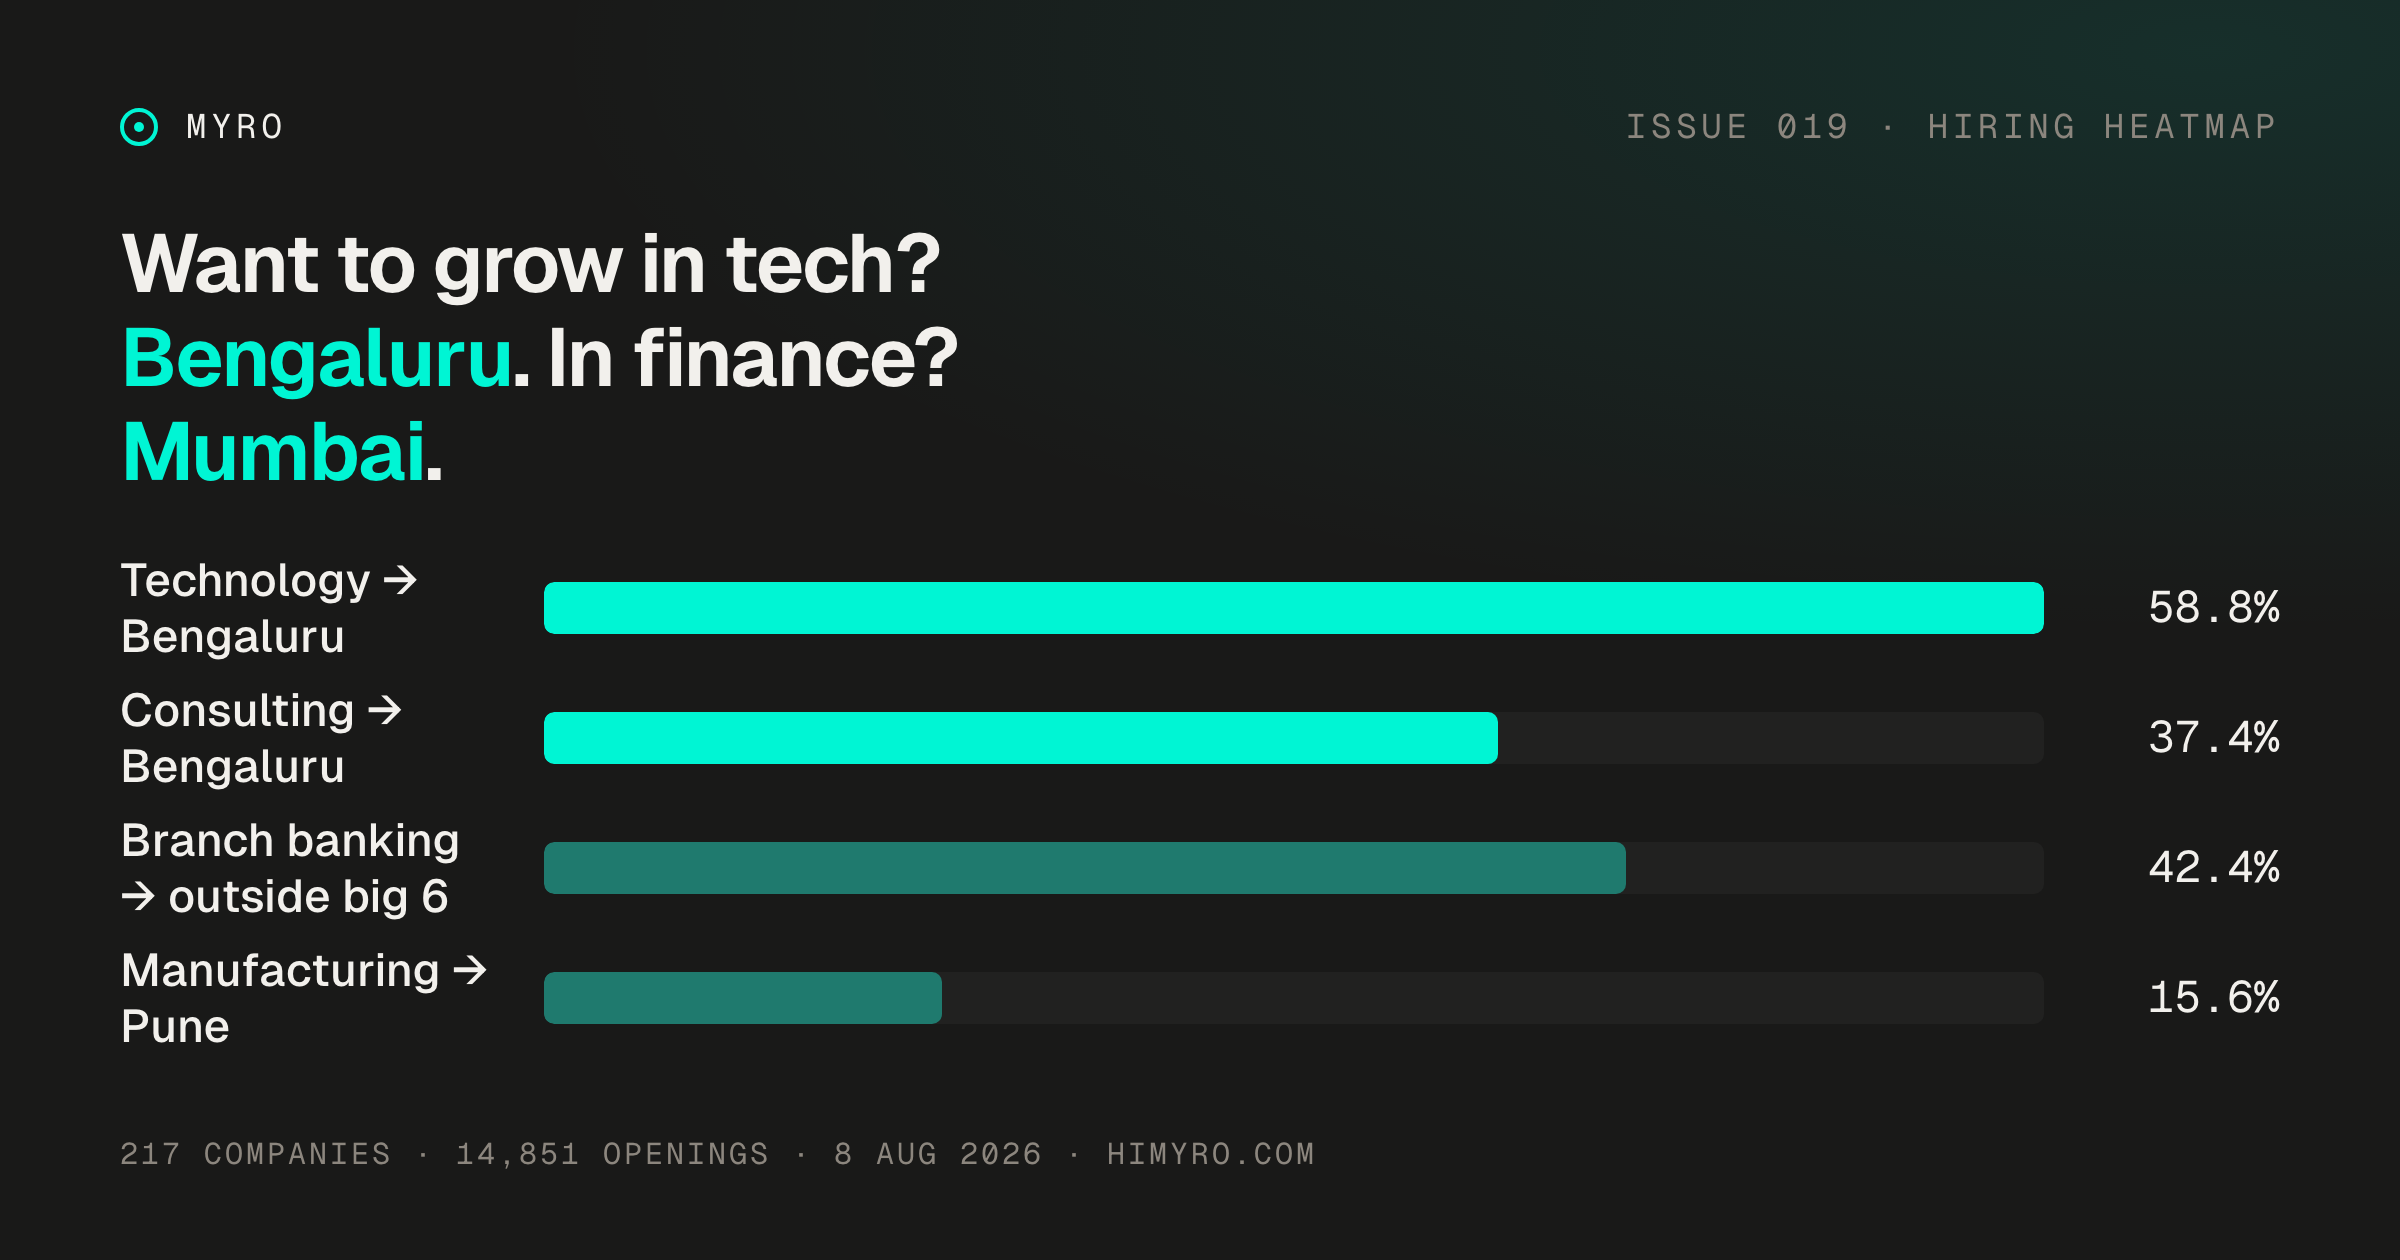
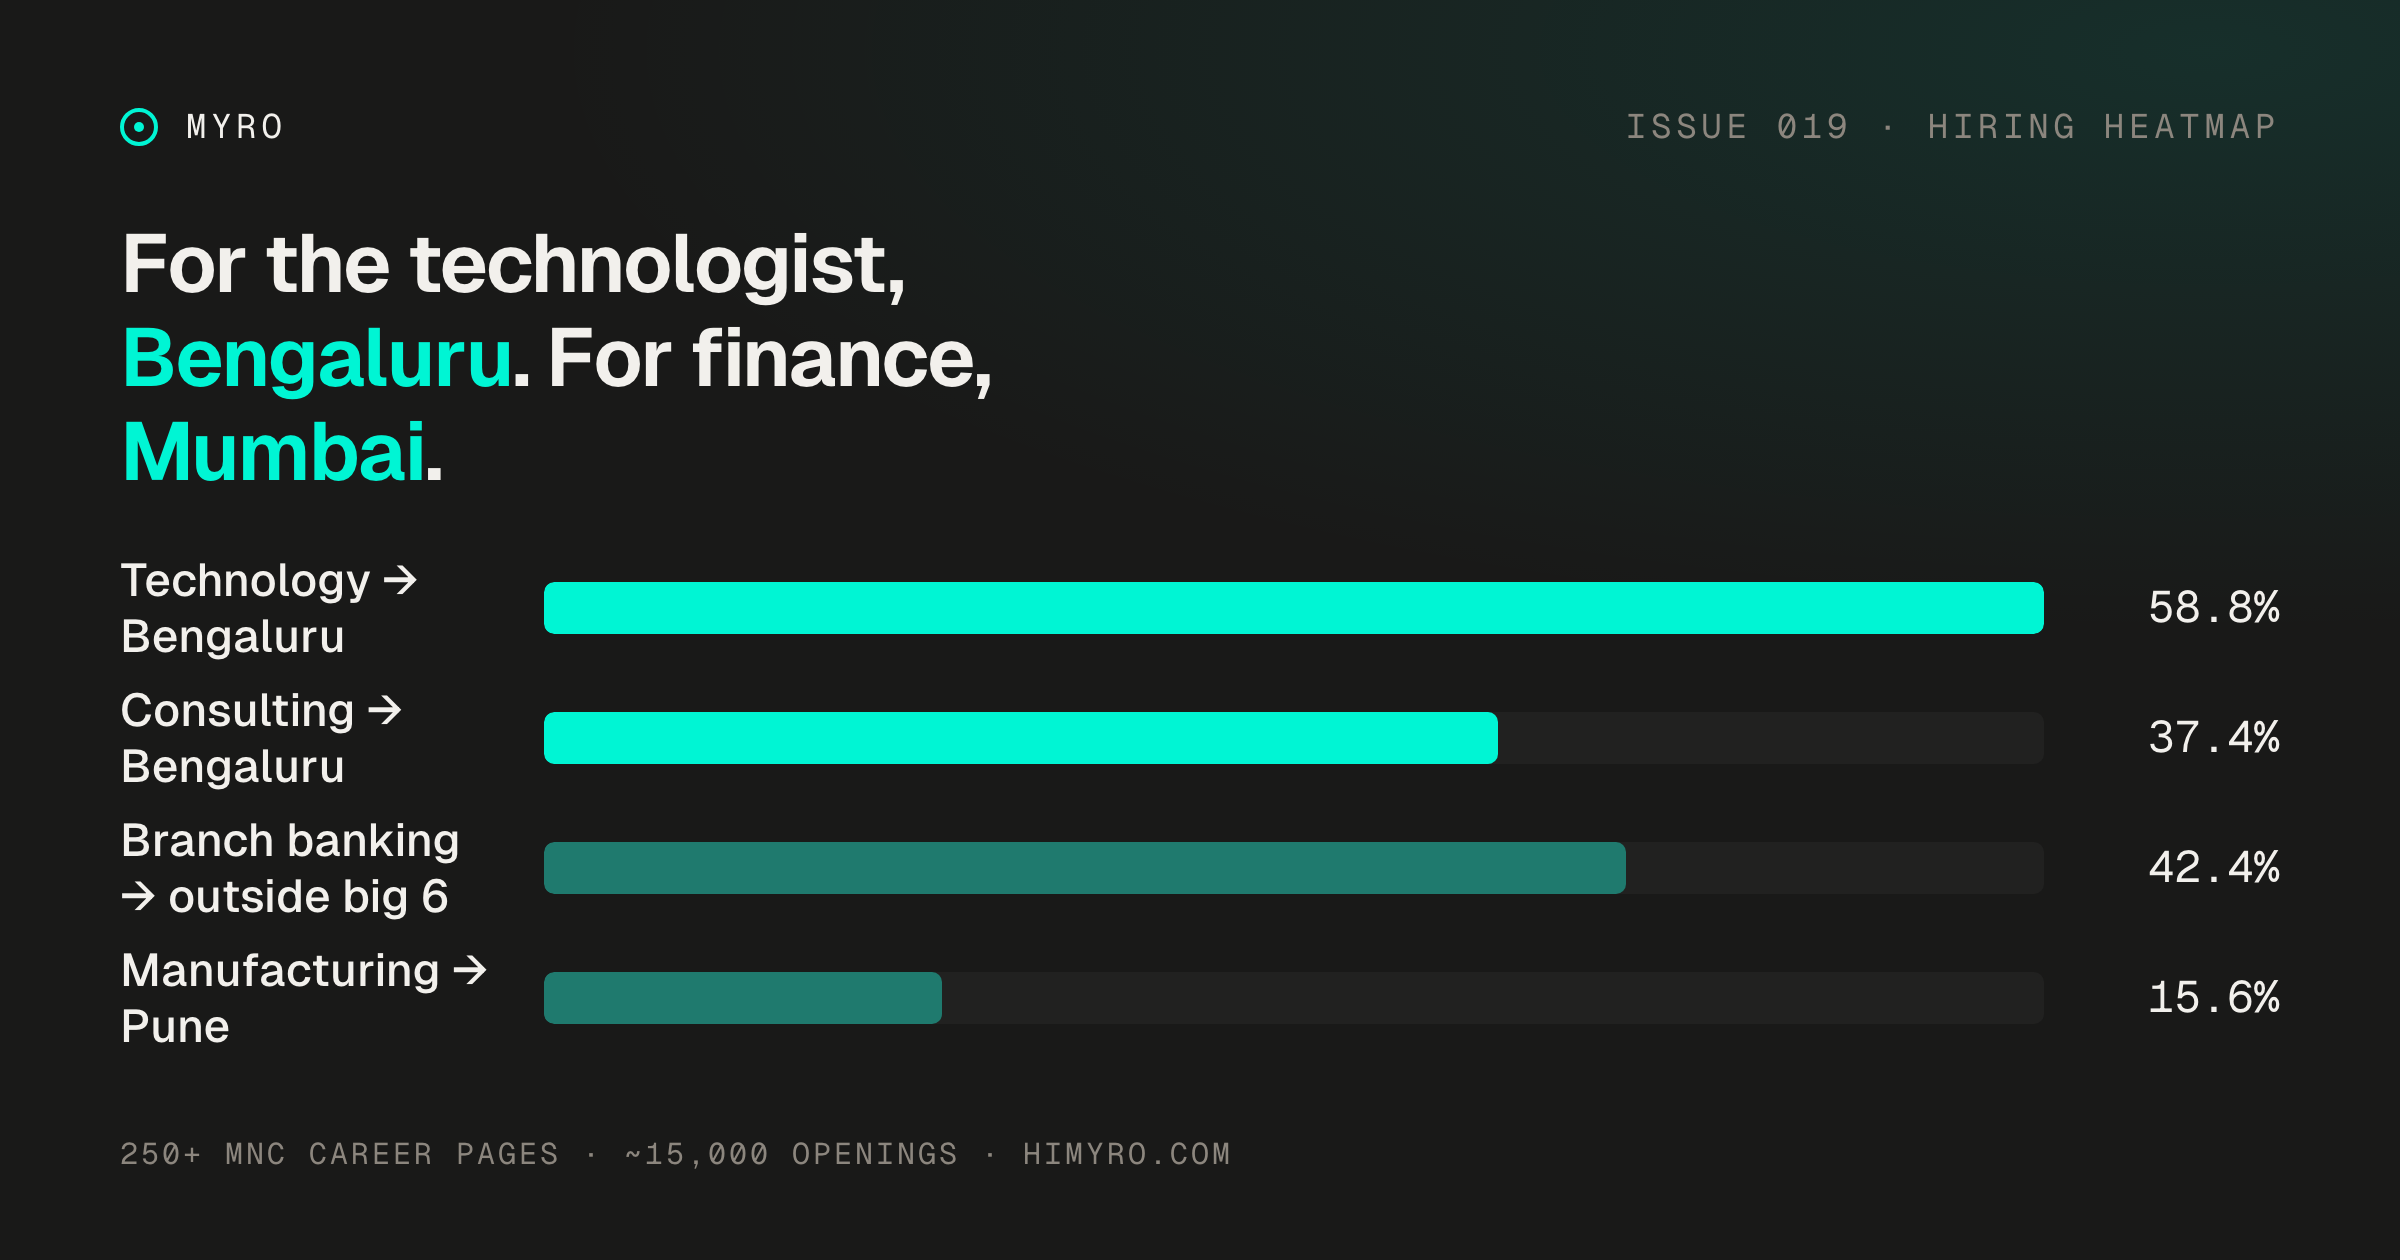
content(newsletter): issue 19 gold version, and record what it changed
Ships Shivam's hand-rewrite verbatim in structure and voice. Three drafts of
mine were accurate and read like a consultant's memo; this one reads like a
person who works in the market.

Two numbers in the lede corrected in his own direction: "close to 14000"
became "close to 15,000" (the batch is 14,851, so the round number was on the
wrong side), and "this week" became "this month" (the batch is 8 August).
"250+ MNC career pages" stands and my earlier correction to 217 was wrong —
the companies table tracks 339 pages and 292 have returned jobs; 217 is only
the subset with live openings in this batch.

Morgan Stanley's split is stated as 80% Mumbai with 16% technology roles
rather than "84% front-office", because 16% is what was measured and the
remainder includes operations and compliance.

Prose methodology section dropped per his edit. The provenance and the panel
caveats move into the `dataset` frontmatter so schema.org still carries them.

NEWSLETTER_STANDARD.md gains the diff: round the provenance and keep the
findings exact, use the reader's own word (GCC), cut the how-to-read-the-table
scaffolding, one warm human aside, headings that are the advice itself, and
never "X is not Y" — the tell the mechanical linter cannot catch.

Changed region(s): [[0.0312, 0.1857, 0.4062, 0.3095], [0.0625, 0.8976, 0.5625, 0.9286]]

diff --git a/NEWSLETTER_STANDARD.md b/NEWSLETTER_STANDARD.md
@@ -23,6 +23,41 @@ Carousel: `scripts/build-newsletter-carousel.py` + a spec in
    limits are.
 6. **Footer CTA into Preparation.** One only.
 
+## What the gold version changed (Issue 019, Shivam's edit, 2026-08-26)
+
+My draft was accurate and read like a consultant's memo. Shivam's rewrite is the
+standard. The differences, in order of how much they matter:
+
+1. **Round the provenance, keep the findings exact.** The lede says "250+ MNC
+   career pages" and "close to 15,000 openings". Every number inside the body
+   stays exact to one decimal. Precision in the opening line reads as fussy;
+   precision in a finding is the product.
+2. **Use the word the reader uses.** "GCC", not "bank technology centre". The
+   audience works in this market and the domain word costs nothing to whoever
+   does not.
+3. **Cut the scaffolding.** No "each row adds to 100%", no "read along your row",
+   no "hold that row loosely". Explaining how to read the table is a tell that
+   the table is not clear enough.
+4. **One warm human aside per issue.** "the floors (and the rains!) of Mumbai".
+   Not a joke, a signal that a person wrote it.
+5. **Section headings can be the whole piece of advice**, in full sentences:
+   "If you are in finance, then Mumbai. But if you want a job in retail banking,
+   move to your favourite tier 2 city."
+6. **State what a thing is.** Never "X is not Y", never "the offices are there,
+   the hiring is not". Say "a Mumbai office is a satellite and a Bengaluru office
+   is the engine". This is the single most persistent tell and the mechanical
+   linter does not catch it.
+7. **No methodology section in the prose.** Provenance lives in the `dataset`
+   frontmatter, so schema.org still carries the caveats without the article
+   stopping to defend itself.
+8. **The CTA says what Myro does**, then links. "We track the official career
+   pages of MNCs and what skills they hire for" earns the click; "practise your
+   skills" alone does not.
+
+Deliberately absent from the gold version: career-stage blocks (Early / Mid /
+Senior). `myro-newsletter Skills/page-anatomy.md` calls them load-bearing. They
+are not, when every section is already addressed to one reader type by name.
+
 ## Rules that are not negotiable
 
 - **Skills are the driver.** Every lane ends in skills a real posting named this
